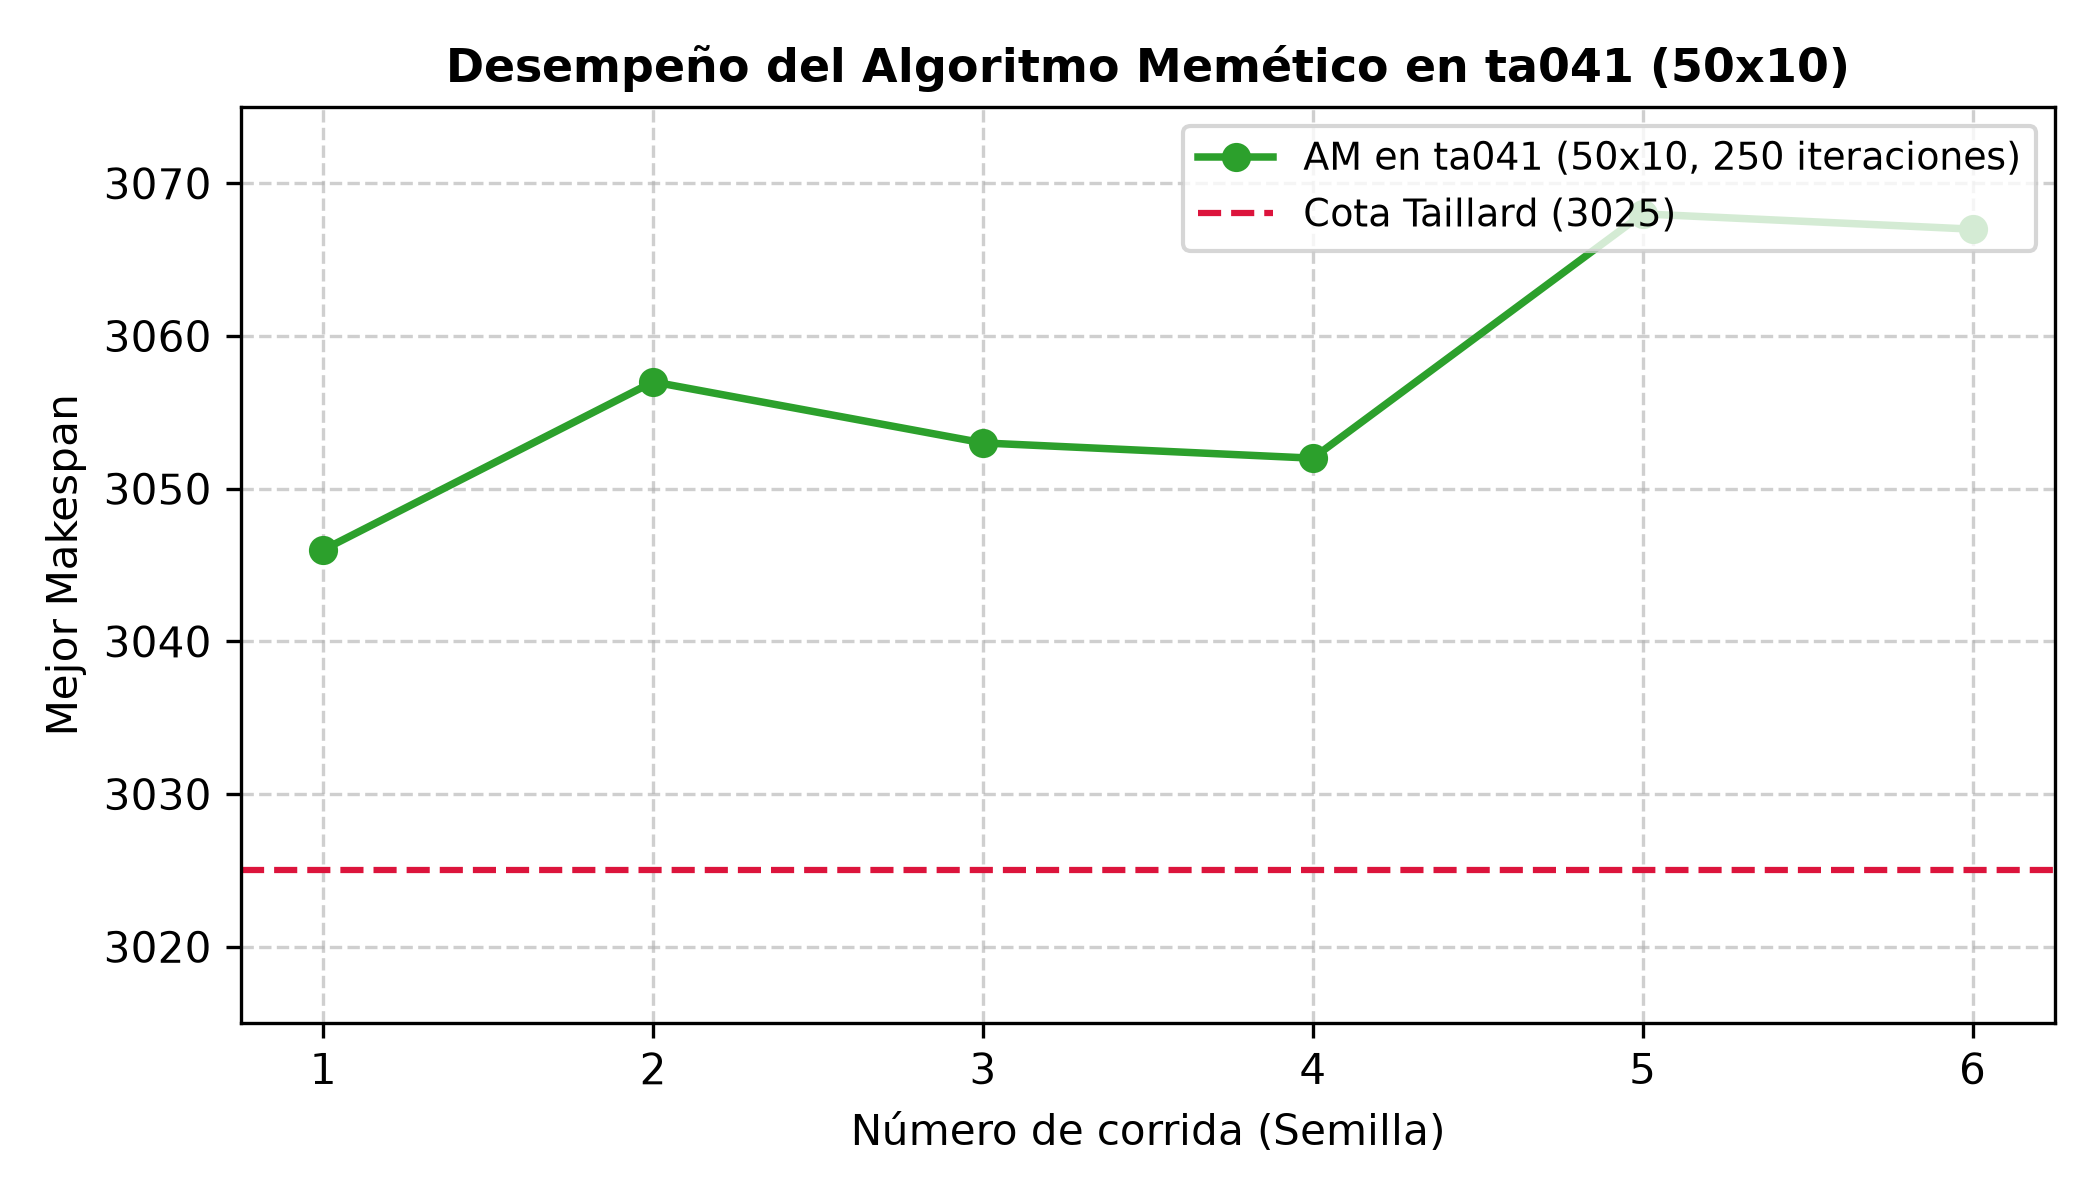
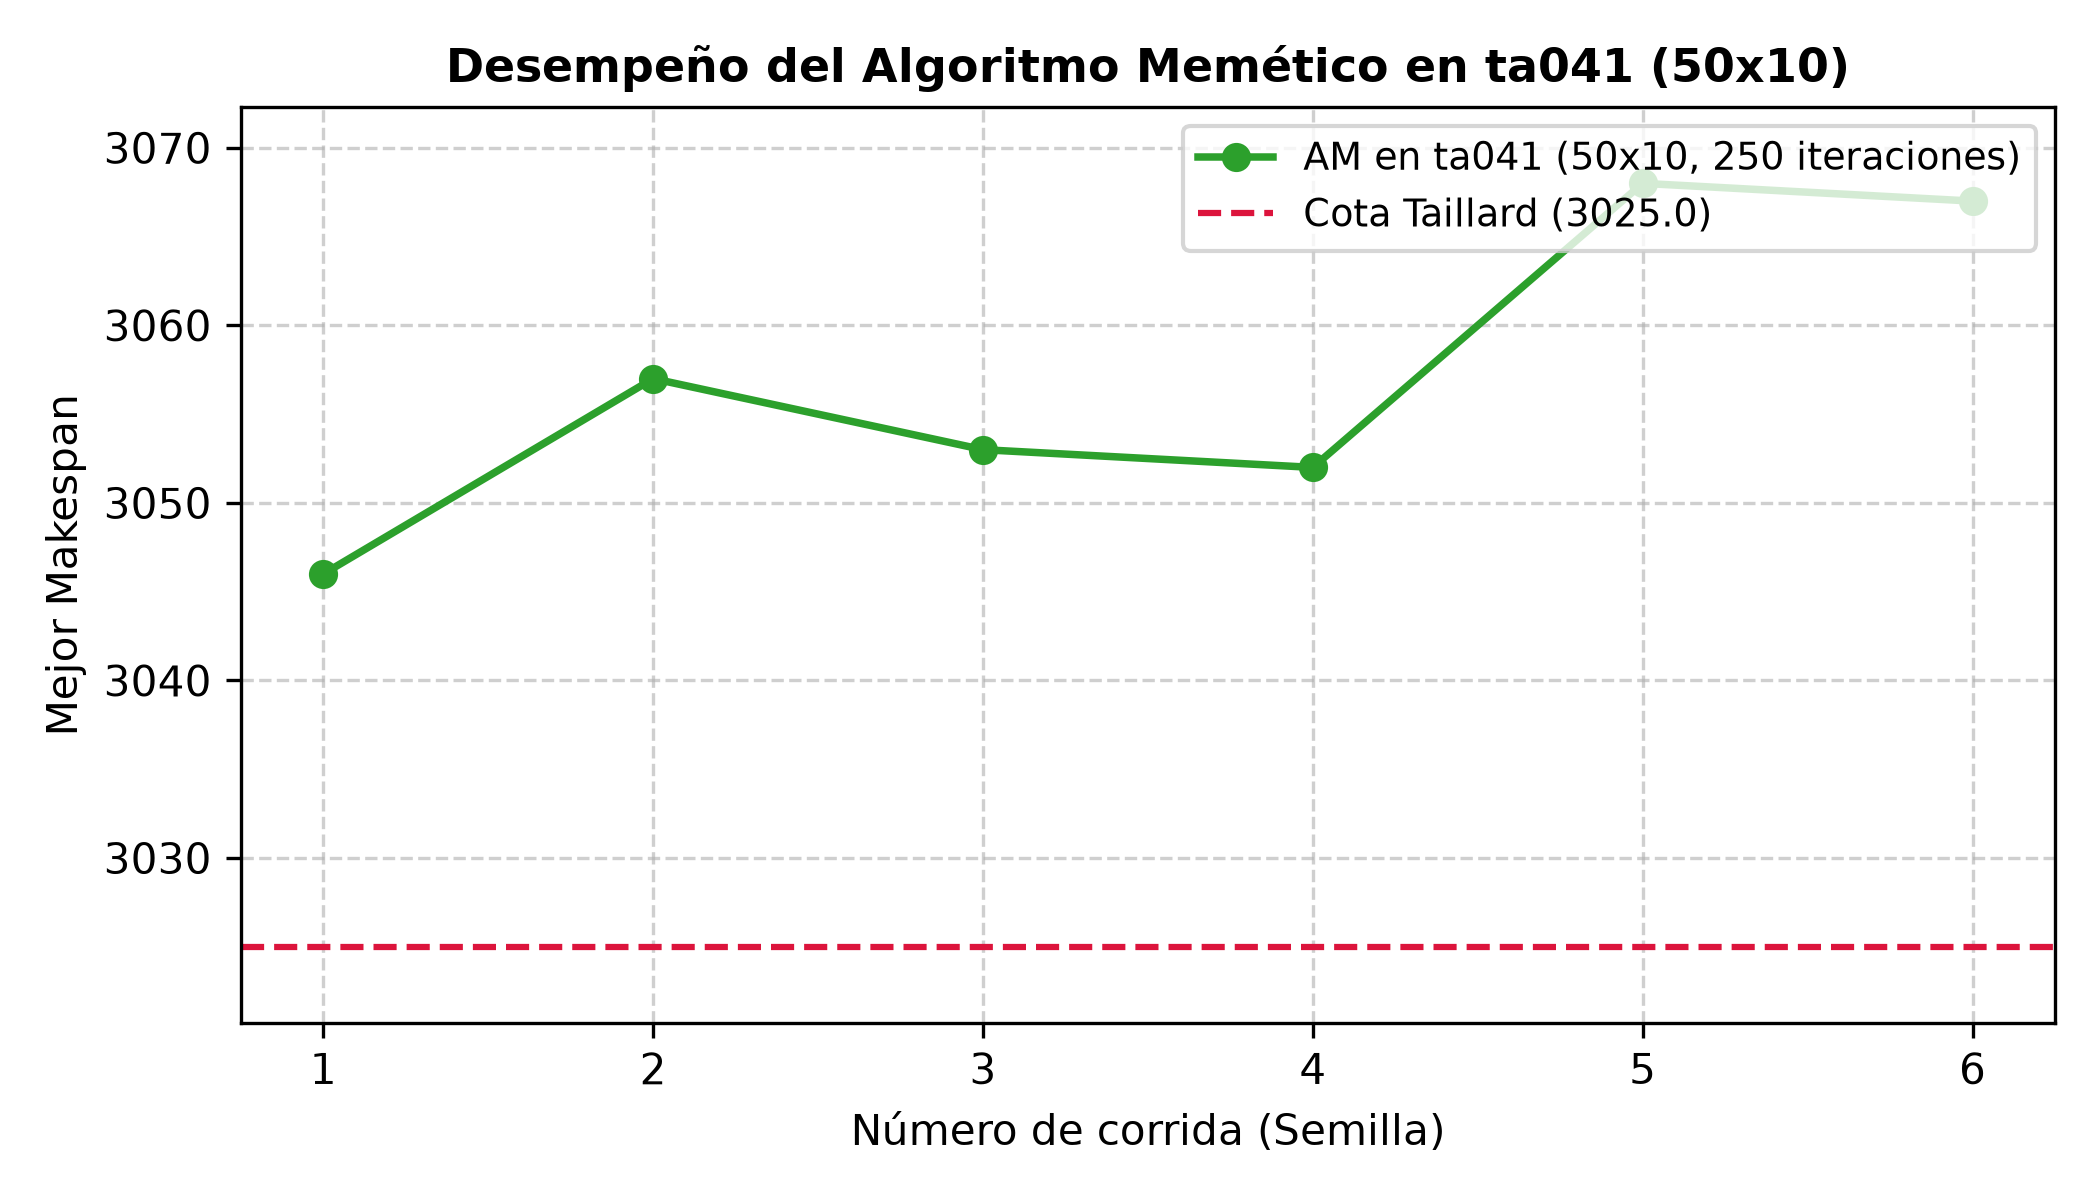
cambios

diff --git a/graficos/graficar_mediana.py b/graficos/graficar_mediana.py
@@ -1,64 +1,62 @@
-# Escala mediana (50x10: ta041)
+"""Grafica las corridas de la instancia mediana ta041."""
+
+import argparse
 from pathlib import Path
 import matplotlib.pyplot as plt
 import pandas as pd
 
-# Rutas relativas
 CARPETA_GRAFICOS = Path(__file__).resolve().parent
 PROYECTO = CARPETA_GRAFICOS.parent
 ARCHIVO_CSV = PROYECTO / "result" / "resultado_gemetico_50x10_ta041_4.csv"
 RUTA_SALIDA = CARPETA_GRAFICOS / "grafico_ta041.png"
 
-if not ARCHIVO_CSV.exists():
-  raise FileNotFoundError(
-      f"No se encontró el archivo {ARCHIVO_CSV}. "
-      "Verifica que esté dentro de la carpeta 'result'."
-  )
+def main() -> None:
+    parser = argparse.ArgumentParser(description="Grafica corridas de ta041")
+    parser.add_argument("--limite-superior", type=float)
+    args = parser.parse_args()
 
-# Cargar y ordenar datos
-df = pd.read_csv(ARCHIVO_CSV)
-df["mejor_makespan"] = pd.to_numeric(df["mejor_makespan"], errors="coerce")
-df = df.sort_values("semilla").reset_index(drop=True)
+    if not ARCHIVO_CSV.exists():
+        raise FileNotFoundError(f"No se encontró el archivo {ARCHIVO_CSV}")
+    df = pd.read_csv(ARCHIVO_CSV)
+    df["mejor_makespan"] = pd.to_numeric(df["mejor_makespan"], errors="raise")
+    df = df.sort_values("semilla").reset_index(drop=True)
+    if "limite_superior" not in df:
+        if args.limite_superior is None:
+            raise ValueError(
+                "El CSV antiguo no contiene limite_superior; usa --limite-superior"
+            )
+        cref = args.limite_superior
+    else:
+        df["limite_superior"] = pd.to_numeric(df["limite_superior"], errors="raise")
+        if df["limite_superior"].nunique() != 1:
+            raise ValueError("El CSV debe usar una sola cota superior")
+        cref = df["limite_superior"].iloc[0]
 
-if "limite_superior" not in df:
-    raise ValueError("El CSV debe contener la columna limite_superior")
-df["limite_superior"] = pd.to_numeric(df["limite_superior"], errors="raise")
-if df["limite_superior"].nunique() != 1:
-    raise ValueError("El CSV debe usar una sola cota superior")
-cref = df["limite_superior"].iloc[0]
+    plt.figure(figsize=(7, 4), dpi=300)
+    plt.plot(
+        df["semilla"], df["mejor_makespan"], marker="o", color="#2ca02c",
+        linewidth=1.8, label="AM en ta041 (50x10, 250 iteraciones)",
+    )
+    plt.axhline(cref, color="crimson", linestyle="--", linewidth=1.5,
+                label=f"Cota Taillard ({cref})")
+    plt.title("Desempeño del Algoritmo Memético en ta041 (50x10)",
+              fontsize=11, fontweight="bold")
+    plt.xlabel("Número de corrida (Semilla)", fontsize=10)
+    plt.ylabel("Mejor Makespan", fontsize=10)
+    plt.xticks(df["semilla"])
+    valores = pd.concat([df["mejor_makespan"], pd.Series([cref])])
+    margen = max(1, (valores.max() - valores.min()) * 0.1)
+    plt.ylim(valores.min() - margen, valores.max() + margen)
+    plt.grid(True, linestyle="--", alpha=0.6)
+    plt.legend(loc="upper right", frameon=True, fontsize=9)
+    plt.tight_layout()
+    plt.savefig(RUTA_SALIDA)
+    print(f"Gráfico de escala mediana guardado en: {RUTA_SALIDA}")
 
-# Graficar
-plt.figure(figsize=(7, 4), dpi=300)
-plt.plot(
-    df["semilla"],
-    df["mejor_makespan"],
-    marker="o",
-    color="#2ca02c",
-    linewidth=1.8,
-    label="AM en ta041 (50x10, 250 iteraciones)",
-)
-plt.axhline(
-    cref,
-    color="crimson",
-    linestyle="--",
-    linewidth=1.5,
-    label=f"Cota Taillard ({cref})",
-)
 
-plt.title(
-    "Desempeño del Algoritmo Memético en ta041 (50x10)",
-    fontsize=11,
-    fontweight="bold",
-)
-plt.xlabel("Número de corrida (Semilla)", fontsize=10)
-plt.ylabel("Mejor Makespan", fontsize=10)
-plt.xticks(df["semilla"])
-valores = pd.concat([df["mejor_makespan"], pd.Series([cref])])
-margen = max(1, (valores.max() - valores.min()) * 0.1)
-plt.ylim(valores.min() - margen, valores.max() + margen)
-plt.grid(True, linestyle="--", alpha=0.6)
-plt.legend(loc="upper right", frameon=True, fontsize=9)
-plt.tight_layout()
-
-plt.savefig(RUTA_SALIDA)
-print(f"Gráfico de escala mediana guardado en: {RUTA_SALIDA}")
+if __name__ == "__main__":
+    try:
+        main()
+    except (FileNotFoundError, ValueError, OSError) as error:
+        print(f"Error: {error}")
+        raise SystemExit(2)

diff --git a/planificador.py b/planificador.py
@@ -86,22 +86,7 @@ def _validar_permutacion(permutacion: Sequence[int], trabajos: int) -> None:
             f"La permutación debe contener exactamente los trabajos 0 a {trabajos - 1}"
         )
     for trabajo in permutacion:
-        if not isinstance(trabajo, int) or trabajo < 0 or trabajo >= trabajos or vistos[trabajo]:
-            raise ValueError(
-                f"La permutación debe contener exactamente los trabajos 0 a {trabajos - 1}"
-            )
-        vistos[trabajo] = True
-
-
-def _validar_permutacion_rapida(permutacion: Sequence[int], trabajos: int) -> None:
-    """Valida una permutación sin crear conjuntos durante el AG."""
-    vistos = [False] * trabajos
-    if len(permutacion) != trabajos:
-        raise ValueError(
-            f"La permutación debe contener exactamente los trabajos 0 a {trabajos - 1}"
-        )
-    for trabajo in permutacion:
-        if not isinstance(trabajo, int) or trabajo < 0 or trabajo >= trabajos or vistos[trabajo]:
+        if isinstance(trabajo, bool) or not isinstance(trabajo, int) or trabajo < 0 or trabajo >= trabajos or vistos[trabajo]:
             raise ValueError(
                 f"La permutación debe contener exactamente los trabajos 0 a {trabajos - 1}"
             )
@@ -126,13 +111,12 @@ def tiempos_finalizacion(
     # Cada operación espera al trabajo anterior y a la máquina anterior.
     finalizacion = [[0] * trabajos for _ in range(maquinas)]
     for posicion, trabajo in enumerate(permutacion):
-        for maquina in range(maquinas):
+        anterior = 0
+        for maquina, pm in enumerate(tiempos_procesamiento):
             trabajo_anterior = finalizacion[maquina][posicion - 1] if posicion else 0
-            maquina_anterior = finalizacion[maquina - 1][posicion] if maquina else 0
-            finalizacion[maquina][posicion] = (
-                max(trabajo_anterior, maquina_anterior)
-                + tiempos_procesamiento[maquina][trabajo]
-            )
+            inicio = anterior if anterior > trabajo_anterior else trabajo_anterior
+            anterior = inicio + pm[trabajo]
+            finalizacion[maquina][posicion] = anterior
     return tuple(tuple(fila) for fila in finalizacion)
 
 
@@ -147,13 +131,16 @@ def calcular_fitness(
     trabajos = len(tiempos_procesamiento[0])
     if trabajos == 0 or any(len(fila) != trabajos for fila in tiempos_procesamiento):
         raise ValueError("La matriz de tiempos debe ser rectangular y no vacía")
-    _validar_permutacion_rapida(permutacion, trabajos)
+    _validar_permutacion(permutacion, trabajos)
 
-    finales = [0] * maquinas
-    for trabajo in permutacion:
-        anterior = 0
-        for maquina in range(maquinas):
-            inicio = max(finales[maquina], anterior)
-            anterior = inicio + tiempos_procesamiento[maquina][trabajo]
-            finales[maquina] = anterior
-    return finales[-1]
+    finales_trabajo = [0] * trabajos
+    makespan = 0
+    for pm in tiempos_procesamiento:
+        final_maquina = 0
+        for trabajo in permutacion:
+            final_previo = finales_trabajo[trabajo]
+            inicio = final_maquina if final_maquina > final_previo else final_previo
+            final_maquina = inicio + pm[trabajo]
+            finales_trabajo[trabajo] = final_maquina
+        makespan = final_maquina
+    return makespan

diff --git a/comparar_metodos.py b/comparar_metodos.py
@@ -8,12 +8,25 @@ import pandas as pd
 from scipy.stats import wilcoxon
 
 
-def cargar_resultados(ruta: Path) -> pd.DataFrame:
+def cargar_resultados(
+    ruta: Path,
+    metodo: str,
+    instancia: str,
+    limite_superior: float | None,
+) -> pd.DataFrame:
     datos = pd.read_csv(ruta)
-    requeridas = {"semilla", "metodo", "instancia", "mejor_makespan", "limite_superior"}
+    requeridas = {"semilla", "mejor_makespan"}
     faltantes = requeridas - set(datos.columns)
     if faltantes:
         raise ValueError(f"{ruta} no contiene las columnas: {', '.join(sorted(faltantes))}")
+    if "limite_superior" not in datos:
+        if limite_superior is None:
+            raise ValueError(f"{ruta} es un CSV antiguo; usa --limite-superior")
+        datos["limite_superior"] = limite_superior
+    if "metodo" not in datos:
+        datos["metodo"] = metodo
+    if "instancia" not in datos:
+        datos["instancia"] = instancia
     datos["mejor_makespan"] = pd.to_numeric(datos["mejor_makespan"], errors="raise")
     datos["limite_superior"] = pd.to_numeric(datos["limite_superior"], errors="raise")
     datos["rpd"] = (
@@ -79,18 +92,25 @@ def main() -> None:
     parser = argparse.ArgumentParser(description="Compara AG y memetico con RPD y Wilcoxon")
     parser.add_argument("ag", type=Path)
     parser.add_argument("memetico", type=Path)
+    parser.add_argument("--limite-superior", type=float)
+    parser.add_argument("--instancia", default="historica")
     parser.add_argument("--salida", type=Path, default=Path("result/comparacion_metodos.csv"))
     args = parser.parse_args()
-    resumen, pvalor = comparar(cargar_resultados(args.ag), cargar_resultados(args.memetico))
-    args.salida.parent.mkdir(parents=True, exist_ok=True)
-    resumen.to_csv(args.salida, index=False)
+    resumen, pvalor = comparar(
+        cargar_resultados(args.ag, "genetico", args.instancia, args.limite_superior),
+        cargar_resultados(args.memetico, "memetico", args.instancia, args.limite_superior),
+    )
+    raiz = Path(__file__).resolve().parent
+    salida = args.salida if args.salida.is_absolute() else raiz / args.salida
+    salida.parent.mkdir(parents=True, exist_ok=True)
+    resumen.to_csv(salida, index=False)
     print(f"Wilcoxon: estadistico={resumen.attrs['estadistico_wilcoxon']}, pvalor={pvalor}")
-    print(f"Comparacion guardada en {args.salida}")
+    print(f"Comparacion guardada en {salida}")
 
 
 if __name__ == "__main__":
     try:
         main()
-    except (FileNotFoundError, ValueError, OSError) as error:
+    except (FileNotFoundError, ValueError, OSError, RuntimeWarning) as error:
         print(f"Error: {error}")
         raise SystemExit(2)

diff --git a/graficos/graficar_pequenas.py b/graficos/graficar_pequenas.py
@@ -10,12 +10,28 @@ CARPETA_GRAFICOS = Path(__file__).resolve().parent
 PROYECTO = CARPETA_GRAFICOS.parent
 
 
-def cargar(ruta: Path, metodo: str) -> pd.DataFrame:
+def cargar(
+    ruta: Path,
+    metodo: str,
+    limite_superior: float | None,
+    instancia: str,
+) -> pd.DataFrame:
     datos = pd.read_csv(ruta)
-    requeridas = {"semilla", "metodo", "instancia", "mejor_makespan", "limite_superior"}
+    requeridas = {"semilla", "mejor_makespan"}
     faltantes = requeridas - set(datos.columns)
     if faltantes:
-        raise ValueError(f"{ruta} no tiene el formato nuevo: faltan {sorted(faltantes)}")
+        raise ValueError(f"{ruta} no contiene las columnas: {sorted(faltantes)}")
+    if "limite_superior" not in datos:
+        if limite_superior is None:
+            raise ValueError(
+                f"{ruta} es un CSV antiguo; usa --limite-superior"
+            )
+        datos["limite_superior"] = limite_superior
+    if "metodo" not in datos:
+        datos["metodo"] = metodo
+    if "instancia" not in datos:
+        datos["instancia"] = instancia
+    datos["limite_superior"] = pd.to_numeric(datos["limite_superior"], errors="raise")
     datos = datos[datos["metodo"] == metodo].copy()
     if datos.empty or datos["instancia"].nunique() != 1:
         raise ValueError(f"{ruta} no contiene resultados validos de {metodo}")
@@ -26,10 +42,12 @@ def main() -> None:
     parser = argparse.ArgumentParser(description="Grafica AG y memetico en una instancia")
     parser.add_argument("ag", type=Path)
     parser.add_argument("memetico", type=Path)
+    parser.add_argument("--limite-superior", type=float)
+    parser.add_argument("--instancia", default="historica")
     parser.add_argument("--salida", type=Path, default=Path("graficos/grafico_escala_pequena.png"))
     args = parser.parse_args()
-    ag = cargar(args.ag, "genetico")
-    memetico = cargar(args.memetico, "memetico")
+    ag = cargar(args.ag, "genetico", args.limite_superior, args.instancia)
+    memetico = cargar(args.memetico, "memetico", args.limite_superior, args.instancia)
     if ag["instancia"].iloc[0] != memetico["instancia"].iloc[0]:
         raise ValueError("Los dos CSV deben corresponder a la misma instancia")
     for datos in (ag, memetico):
